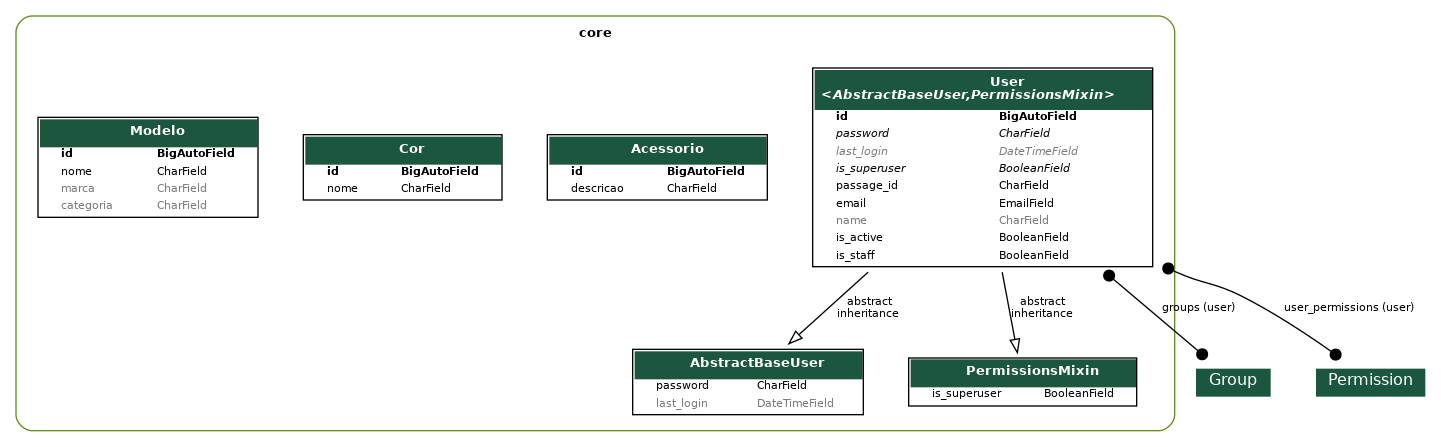
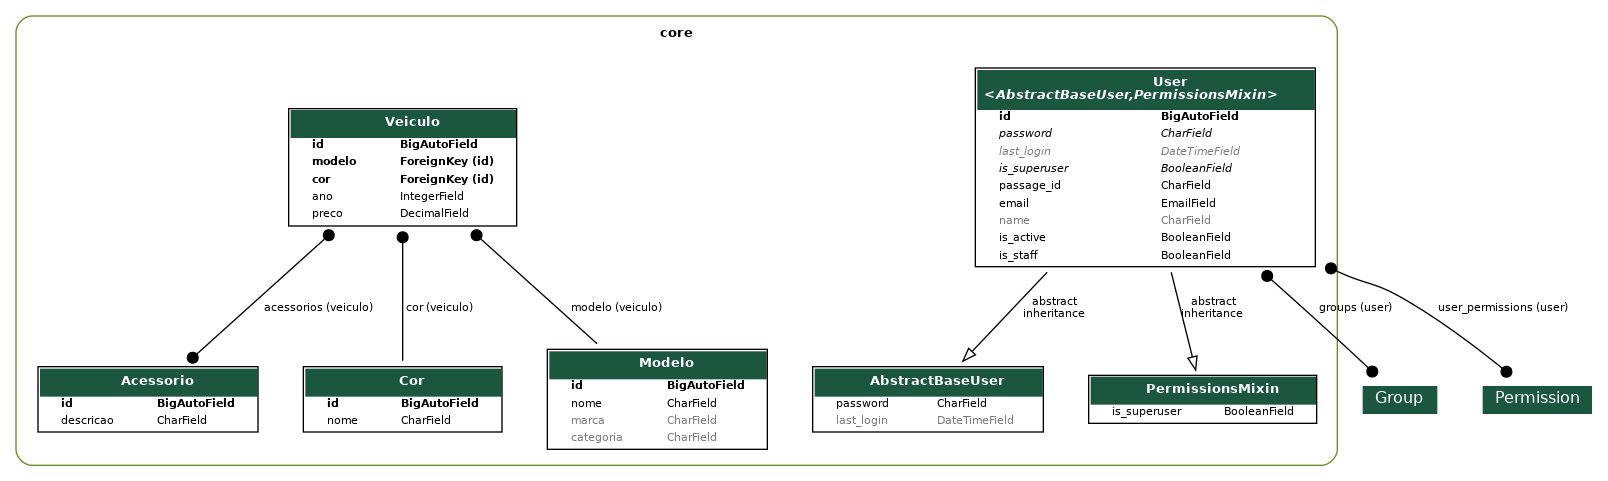
feat: migrate esquecido

diff --git a/core/migrations/0008_veiculo.py b/core/migrations/0008_veiculo.py
@@ -1,0 +1,25 @@
+# Generated by Django 5.1.7 on 2025-04-28 17:52
+
+import django.db.models.deletion
+from django.db import migrations, models
+
+
+class Migration(migrations.Migration):
+
+    dependencies = [
+        ('core', '0007_modelo'),
+    ]
+
+    operations = [
+        migrations.CreateModel(
+            name='Veiculo',
+            fields=[
+                ('id', models.BigAutoField(auto_created=True, primary_key=True, serialize=False, verbose_name='ID')),
+                ('ano', models.IntegerField(null=True)),
+                ('preco', models.DecimalField(decimal_places=2, default=0, max_digits=10, null=True)),
+                ('acessorios', models.ManyToManyField(to='core.acessorio')),
+                ('cor', models.ForeignKey(on_delete=django.db.models.deletion.CASCADE, to='core.cor')),
+                ('modelo', models.ForeignKey(on_delete=django.db.models.deletion.CASCADE, to='core.modelo')),
+            ],
+        ),
+    ]
